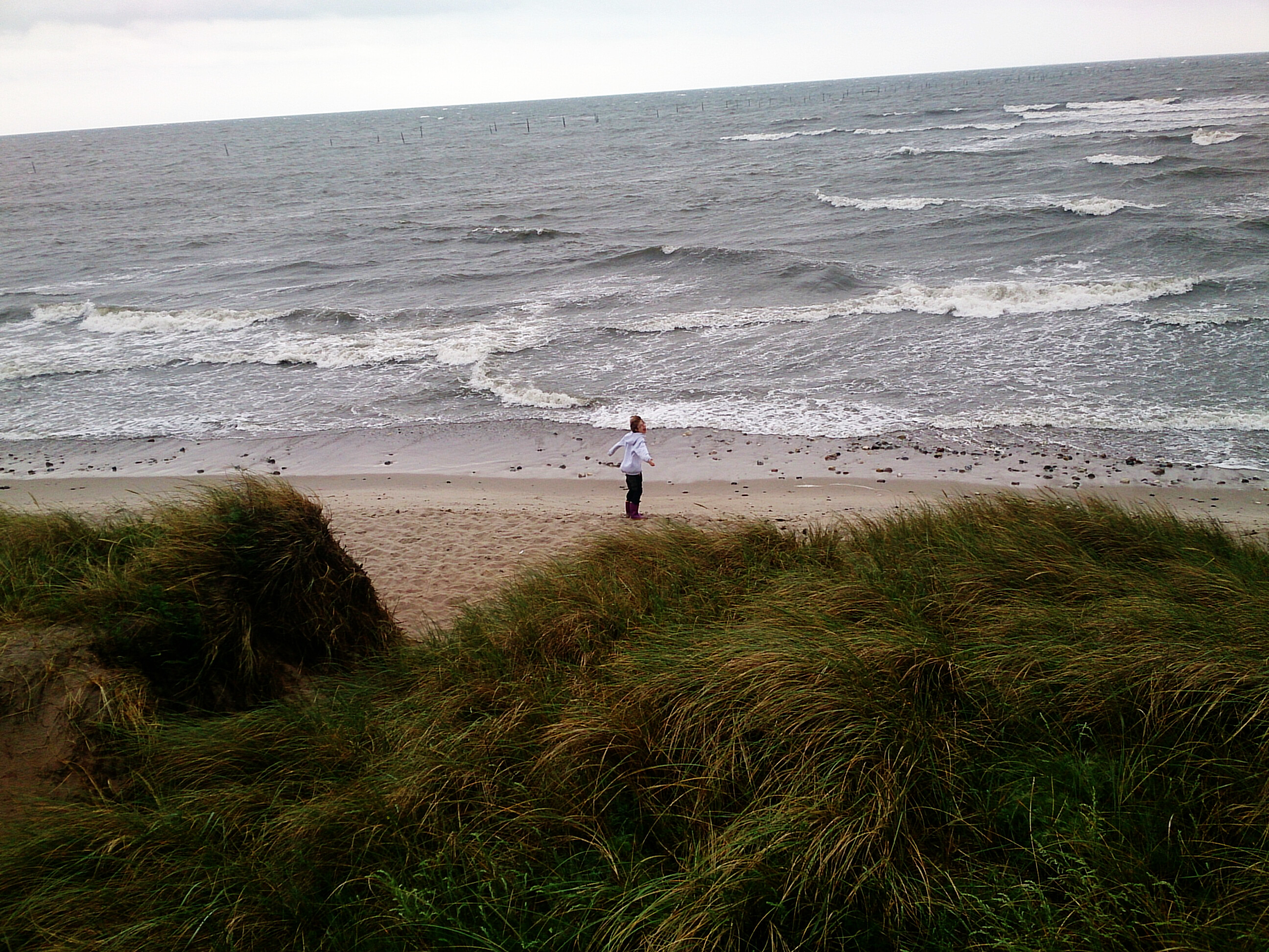
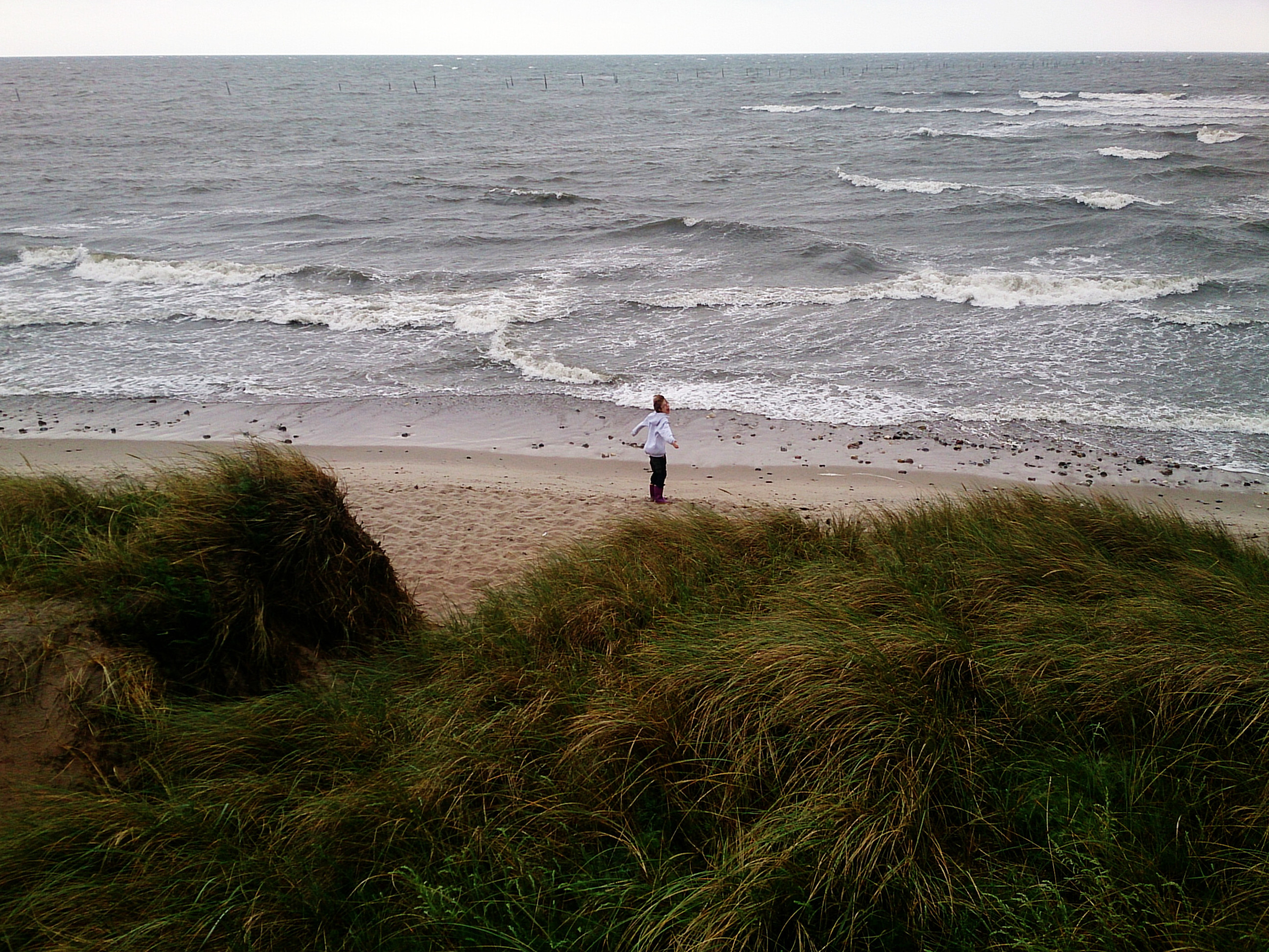
use small image for small devices. As well use overlay so image is not so in-your-face.

diff --git a/work/scss/_background.scss b/work/scss/_background.scss
@@ -3,9 +3,19 @@
     left:0;
     top:0;
 
-    background:url(/back03.jpg) center bottom/cover no-repeat;
+    background:url(/back03-medium.jpg) center bottom/cover no-repeat;
     @include background-size(cover);
     width:100%;
     height:125%;
-    z-index:-1
+    z-index:-1;
+
+    .overlay {
+        width: 100%;
+        height: 100%;
+        background-color: rgba(13,13,13,.5);
+    }
+
+    @include breakpoint($XL...) {
+        background: url(/back03-large.jpg) center bottom/cover no-repeat;
+    }
 }
